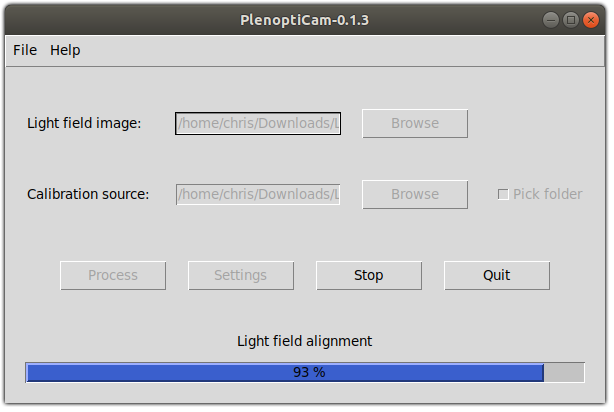
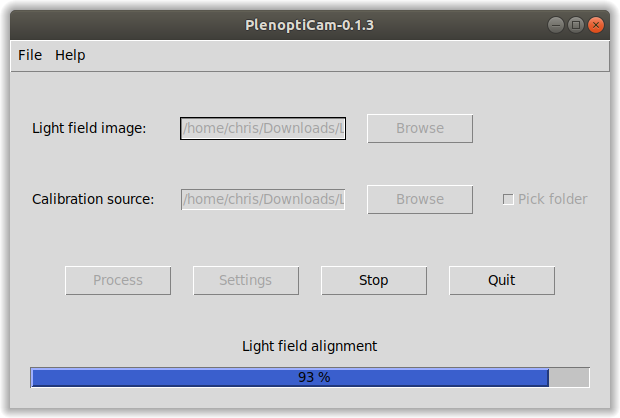
docs(readme): minor changes to GUI

diff --git a/README.rst b/README.rst
@@ -37,7 +37,7 @@ Usage
 .. |gui| raw:: html
 
     <p align="center">
-        <img src="https://raw.githubusercontent.com/hahnec/plenopticam/develop/docs/img/gui_ubuntu.png" width="66%">
+        <img src="https://raw.githubusercontent.com/hahnec/plenopticam/develop/docs/img/gui_ubuntu.png" width="50%">
     <p>
 
 .. note::
